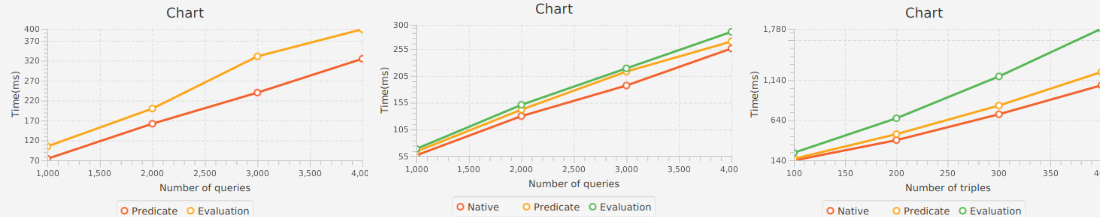
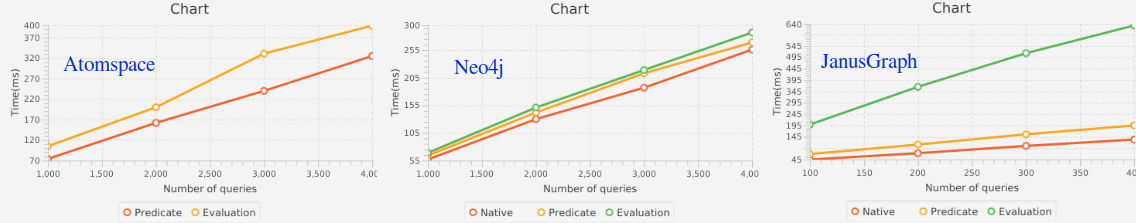
Update conclusion in README

diff --git a/atomspace-storage-performance/README.md b/atomspace-storage-performance/README.md
@@ -290,15 +290,12 @@ Query time (ms):
 
 ## Conclusion
 
-The current conclusion does not include Neo4j with Cypher measurements
-because they showed worse result as Neo4j with Java API.
-
 ![Compare create requests](docs/images/perf/time_create_compare.png)
 
-All three storages AtomSpace, Neo4j with Java API, and JanusGraph shows nearly linear
+All three storages AtomSpace, Neo4j with Java API, and JanusGraph show nearly linear
 time dependency for atoms creation in Native, Predicate and Evaluation models.  
 
-However, the creation time different is for each model.
+However, the creation time is different for each model.
 AtomsSpace is the fastest one just because it stores all data in memory.
 
 The difference between time creation for Neo4j and JanusGaph needs to be further investigated.
@@ -306,8 +303,15 @@ Both storages were deployed locally and they should be able to properly cache th
 
 ![Compare query requests](docs/images/perf/time_query_compare.png)
 
-The similar conclusion is for query requests.
 
-Note that the current work does not emulate incoming set creation and traversing
-which has additional impact on creation and query time. This should be investigated
-in additional work.
+The query requests also are described nearly linear time dependency.
+
+The Evaluation model for JanusGraph shows significant time increasing for larger number requests.
+The similar results are showed by the Neo4j with Cypher query requests.
+Reasonable explanation could be that query requests for Native and Predicate models require
+only one path traversal whereas Evaluation model contains fork when it is necessary to
+check both paths to predicate and to object nodes.
+
+It should be noted that the current work does not emulate incoming set creation and traversing
+through it as it is used by pattern matcher in AtomSpace. Incoming set emulation
+can introduce additional impact on both for data creation and query time performance.
